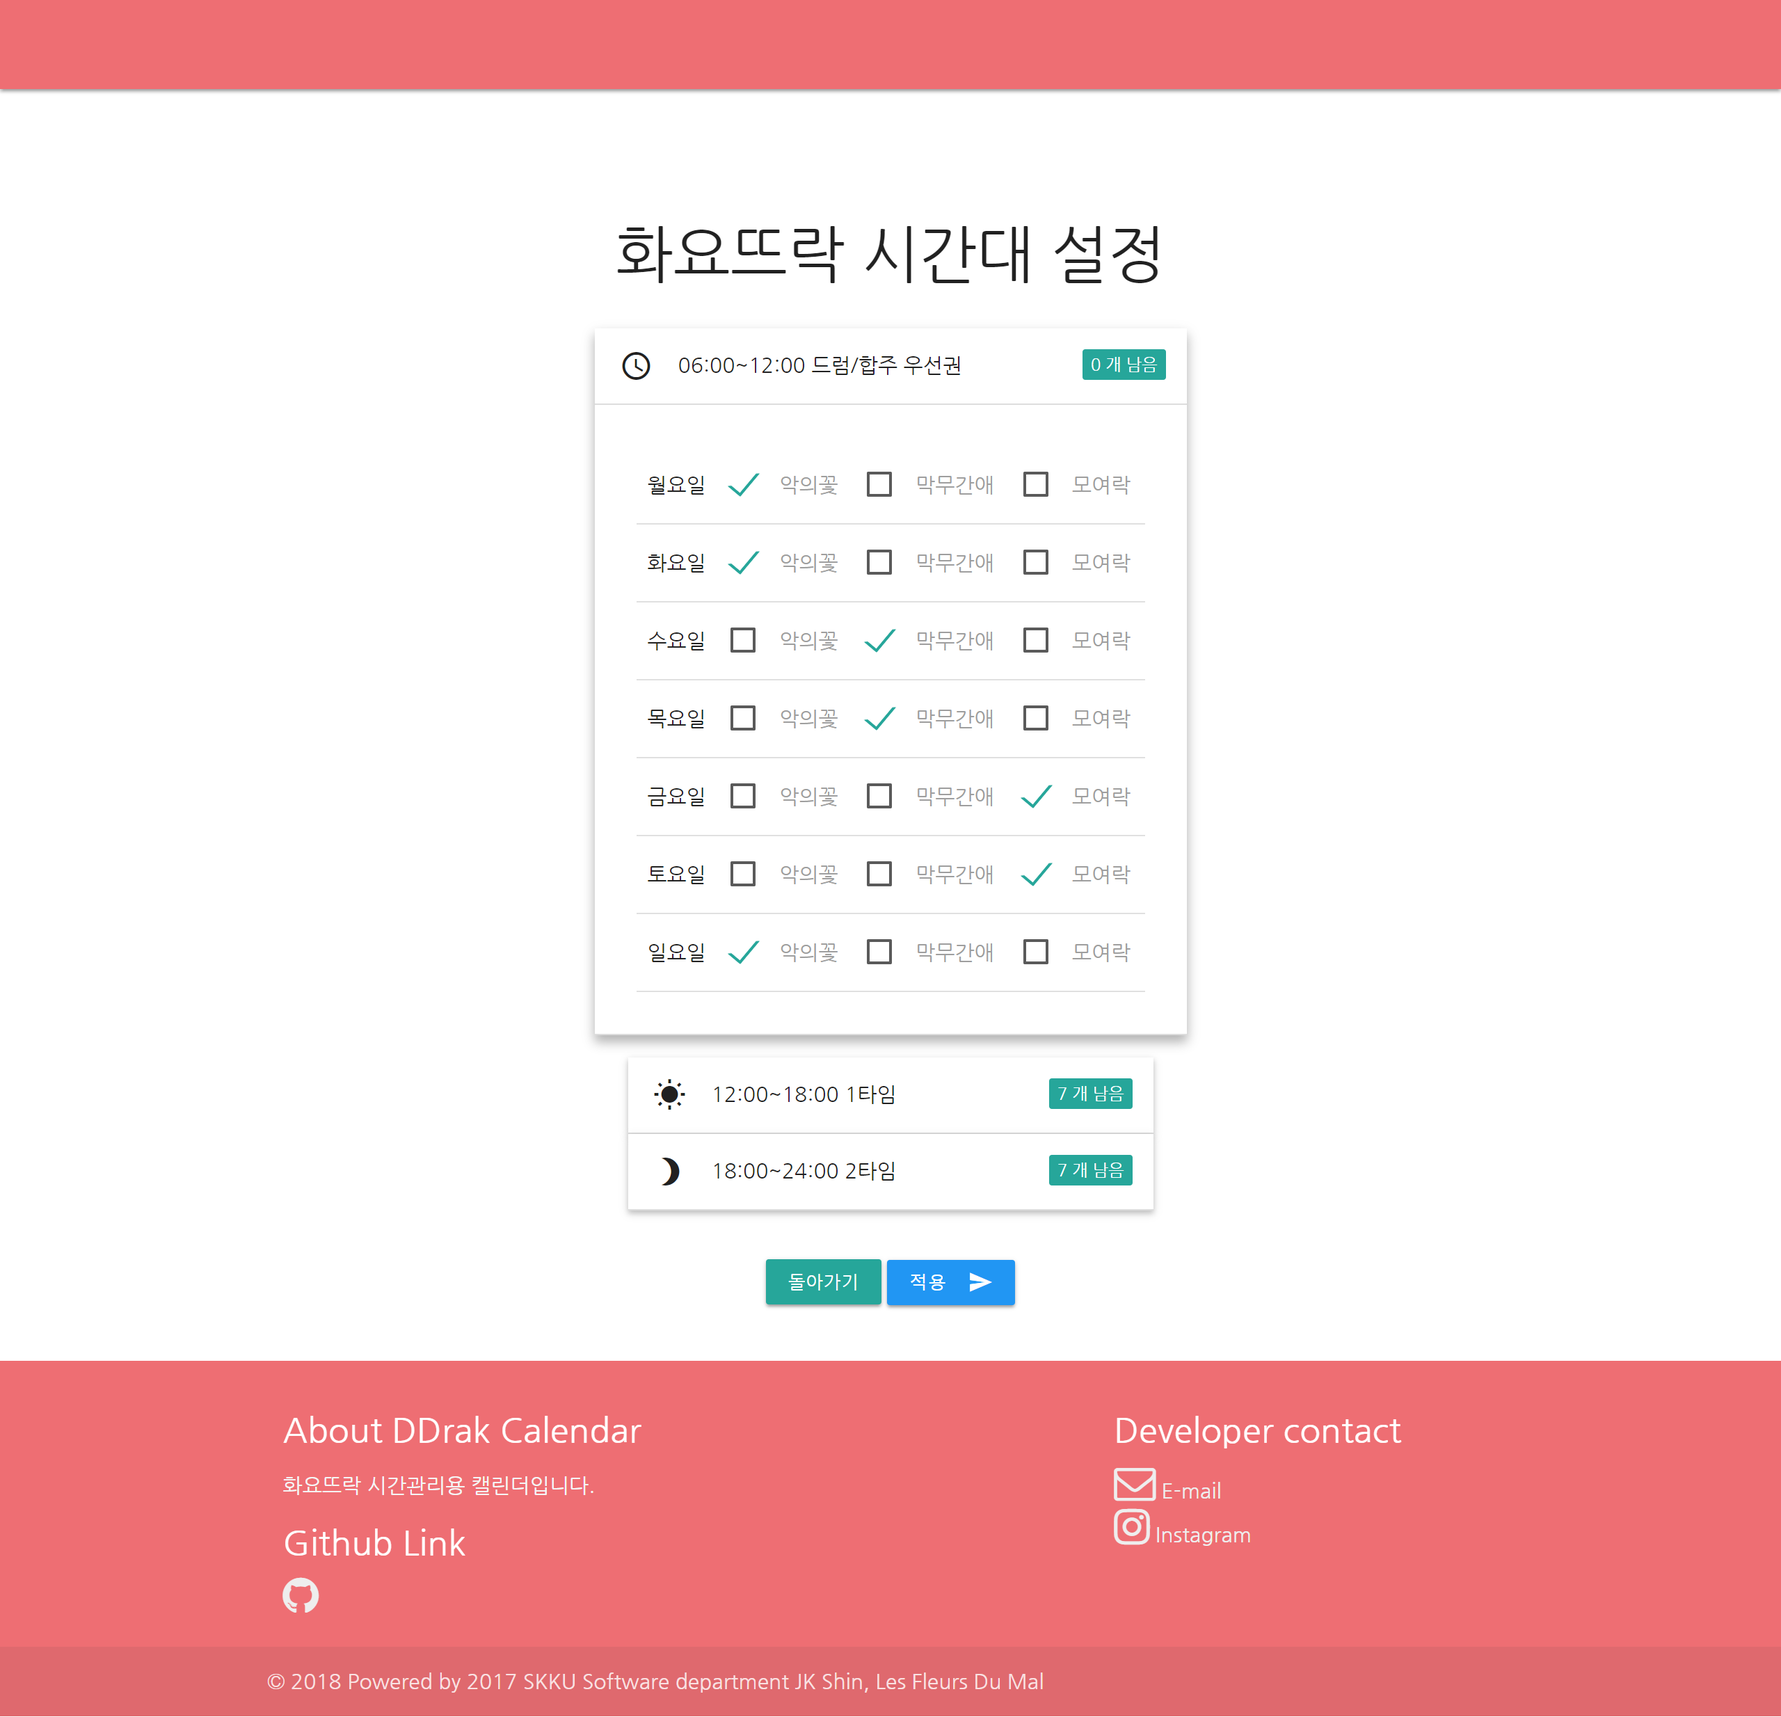
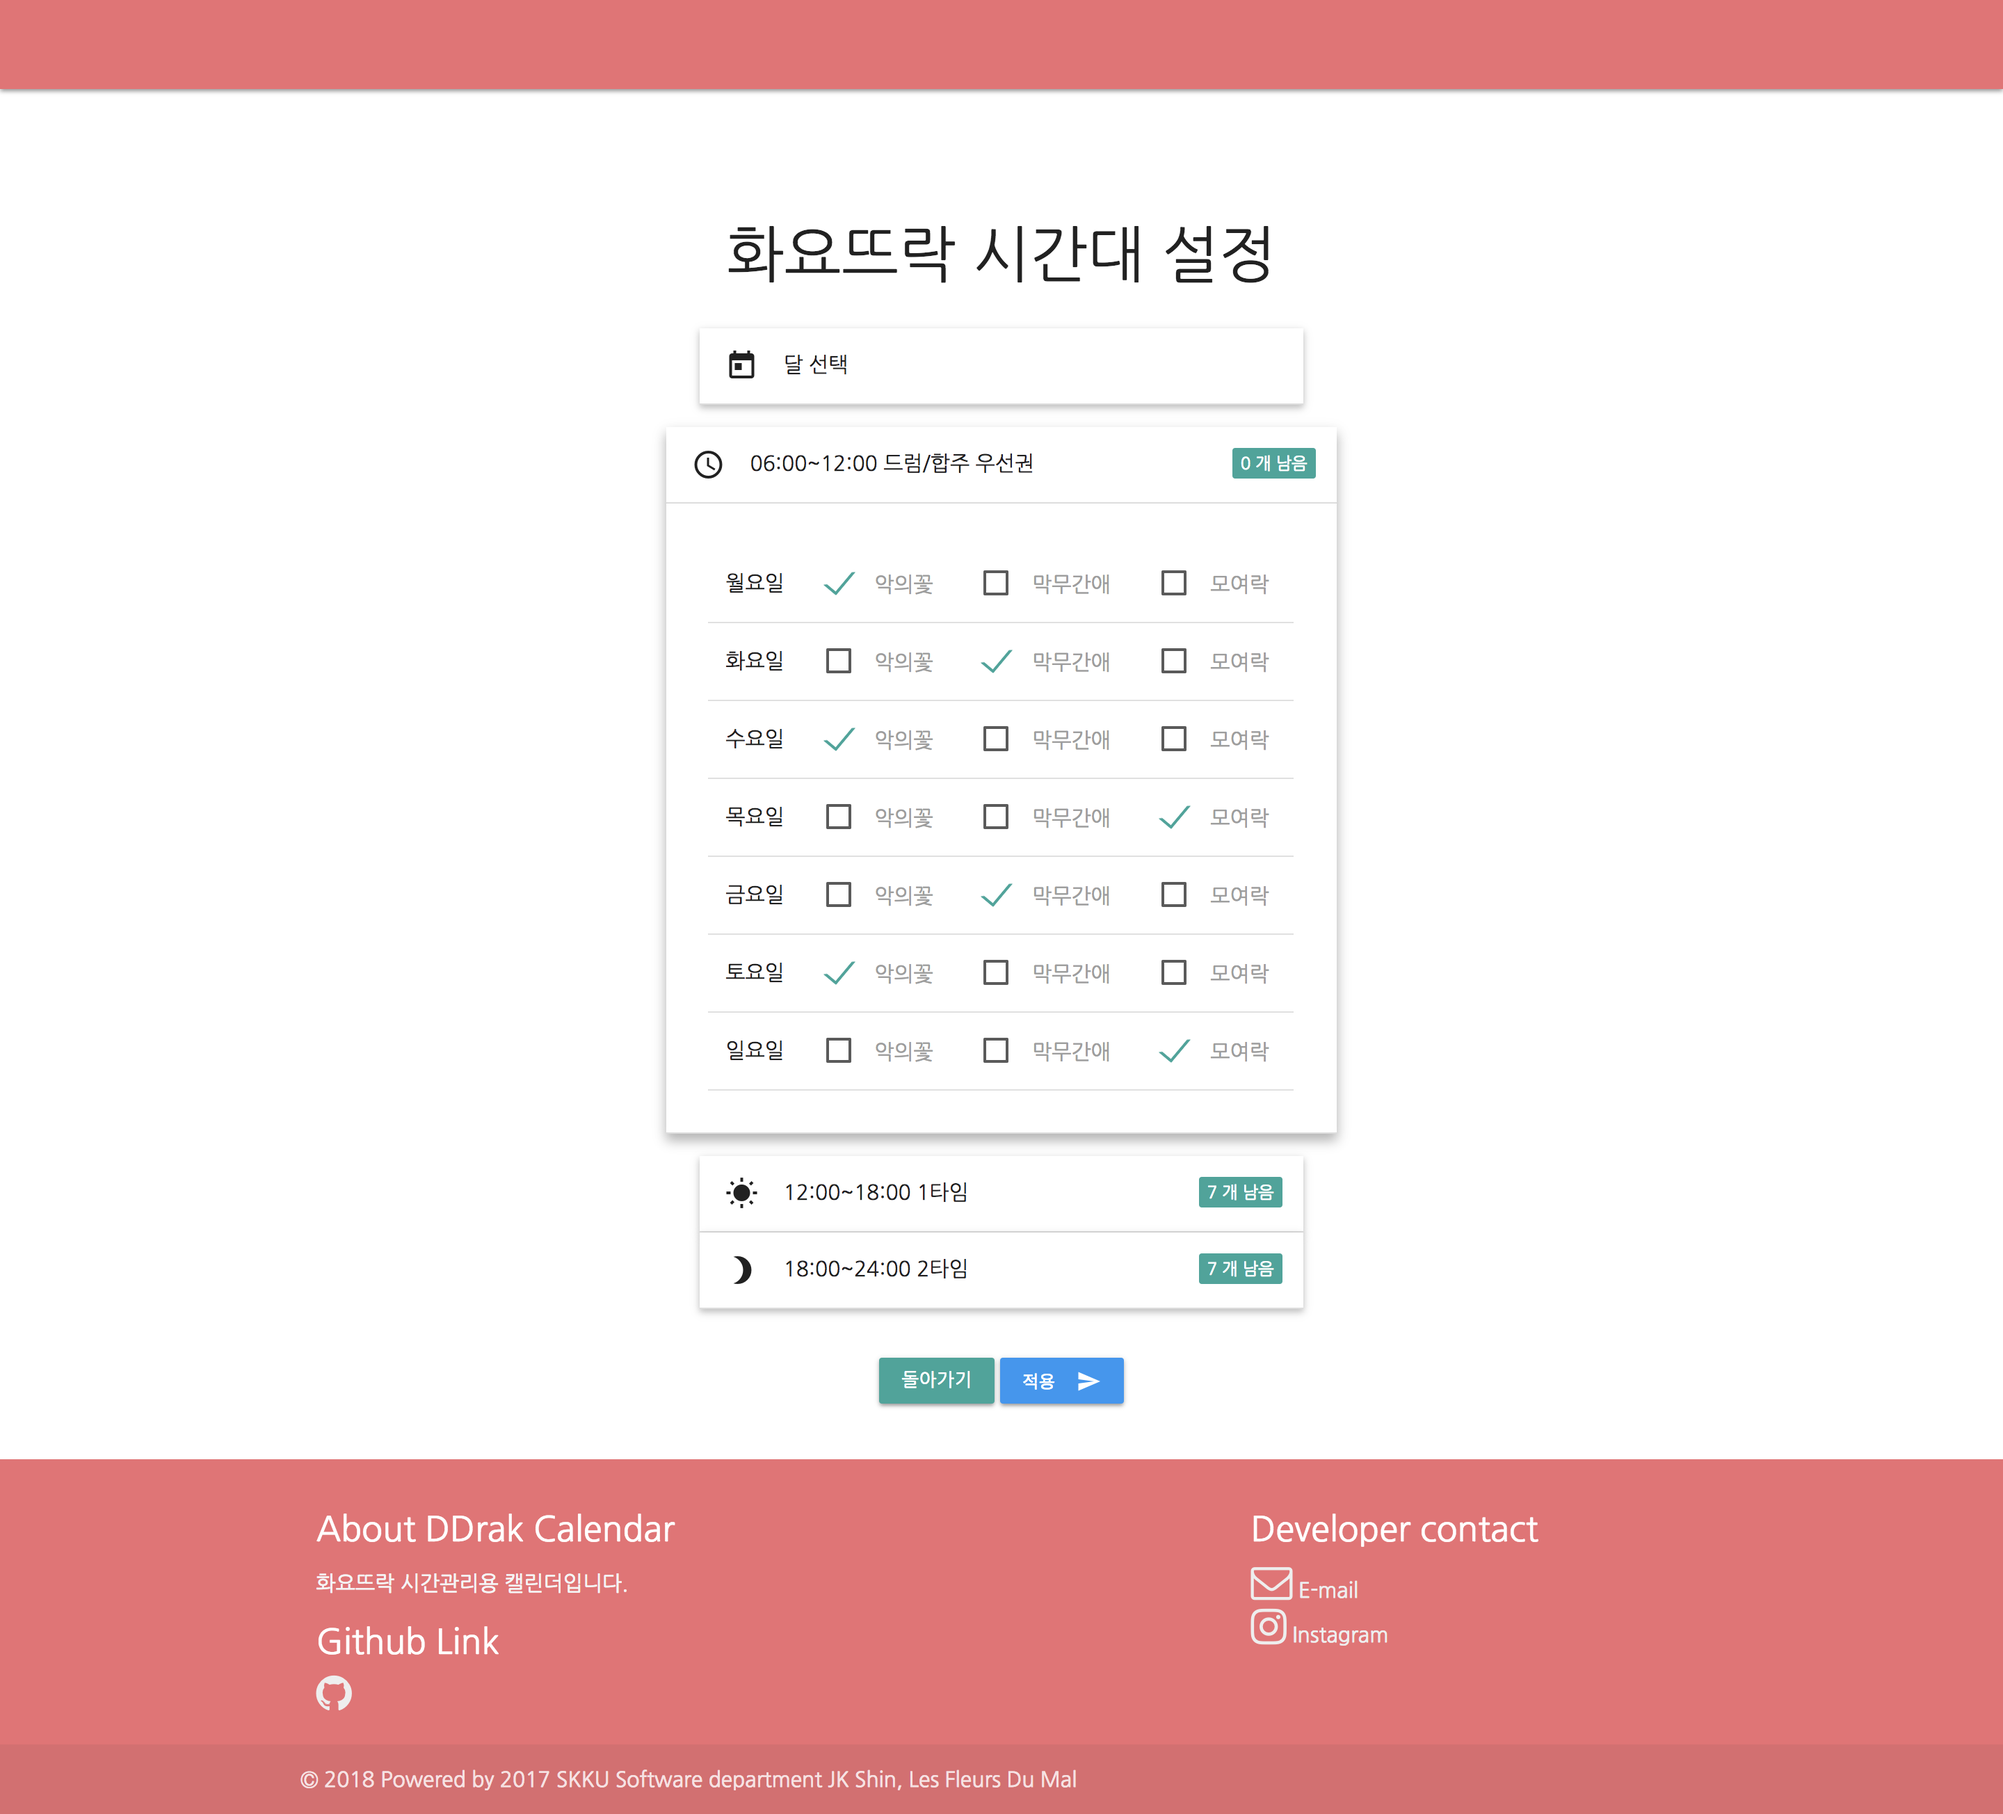
SetTime Modified; README image modified

diff --git a/ddrakProject/templates/SetTime.html b/ddrakProject/templates/SetTime.html
@@ -666,6 +666,8 @@
             var monMor = false, tueMor = false, wedMor = false, thuMor = false, friMor = false, satMor = false, sunMor = false;
             var monAft = false, tueAft = false, wedAft = false, thuAft = false, friAft = false, satAft = false, sunAft = false;
             var monEve = false, tueEve = false, wedEve = false, thuEve = false, friEve = false, satEve = false, sunEve = false;
+            var month = false;
+
             // 오전 오후 저녁
             for(var i=0; i<3; i++){
                 monMor = monMor || form.monMor[i].checked;
@@ -691,6 +693,13 @@
                 friEve = friEve || form.friEve[i].checked;
                 satEve = satEve || form.satEve[i].checked;
                 sunEve = sunEve || form.sunEve[i].checked;
+            }
+            for(var i=0; i<2; i++) {
+                month = month || form.month[i].checked;
+            }
+            if(!month) {
+                alert("달을 지정하지 않았습니다.");
+                return;
             }
             if (!monMor) {
                 alert("월요일 아침 시간에 지정된 동아리가 없습니다.");
